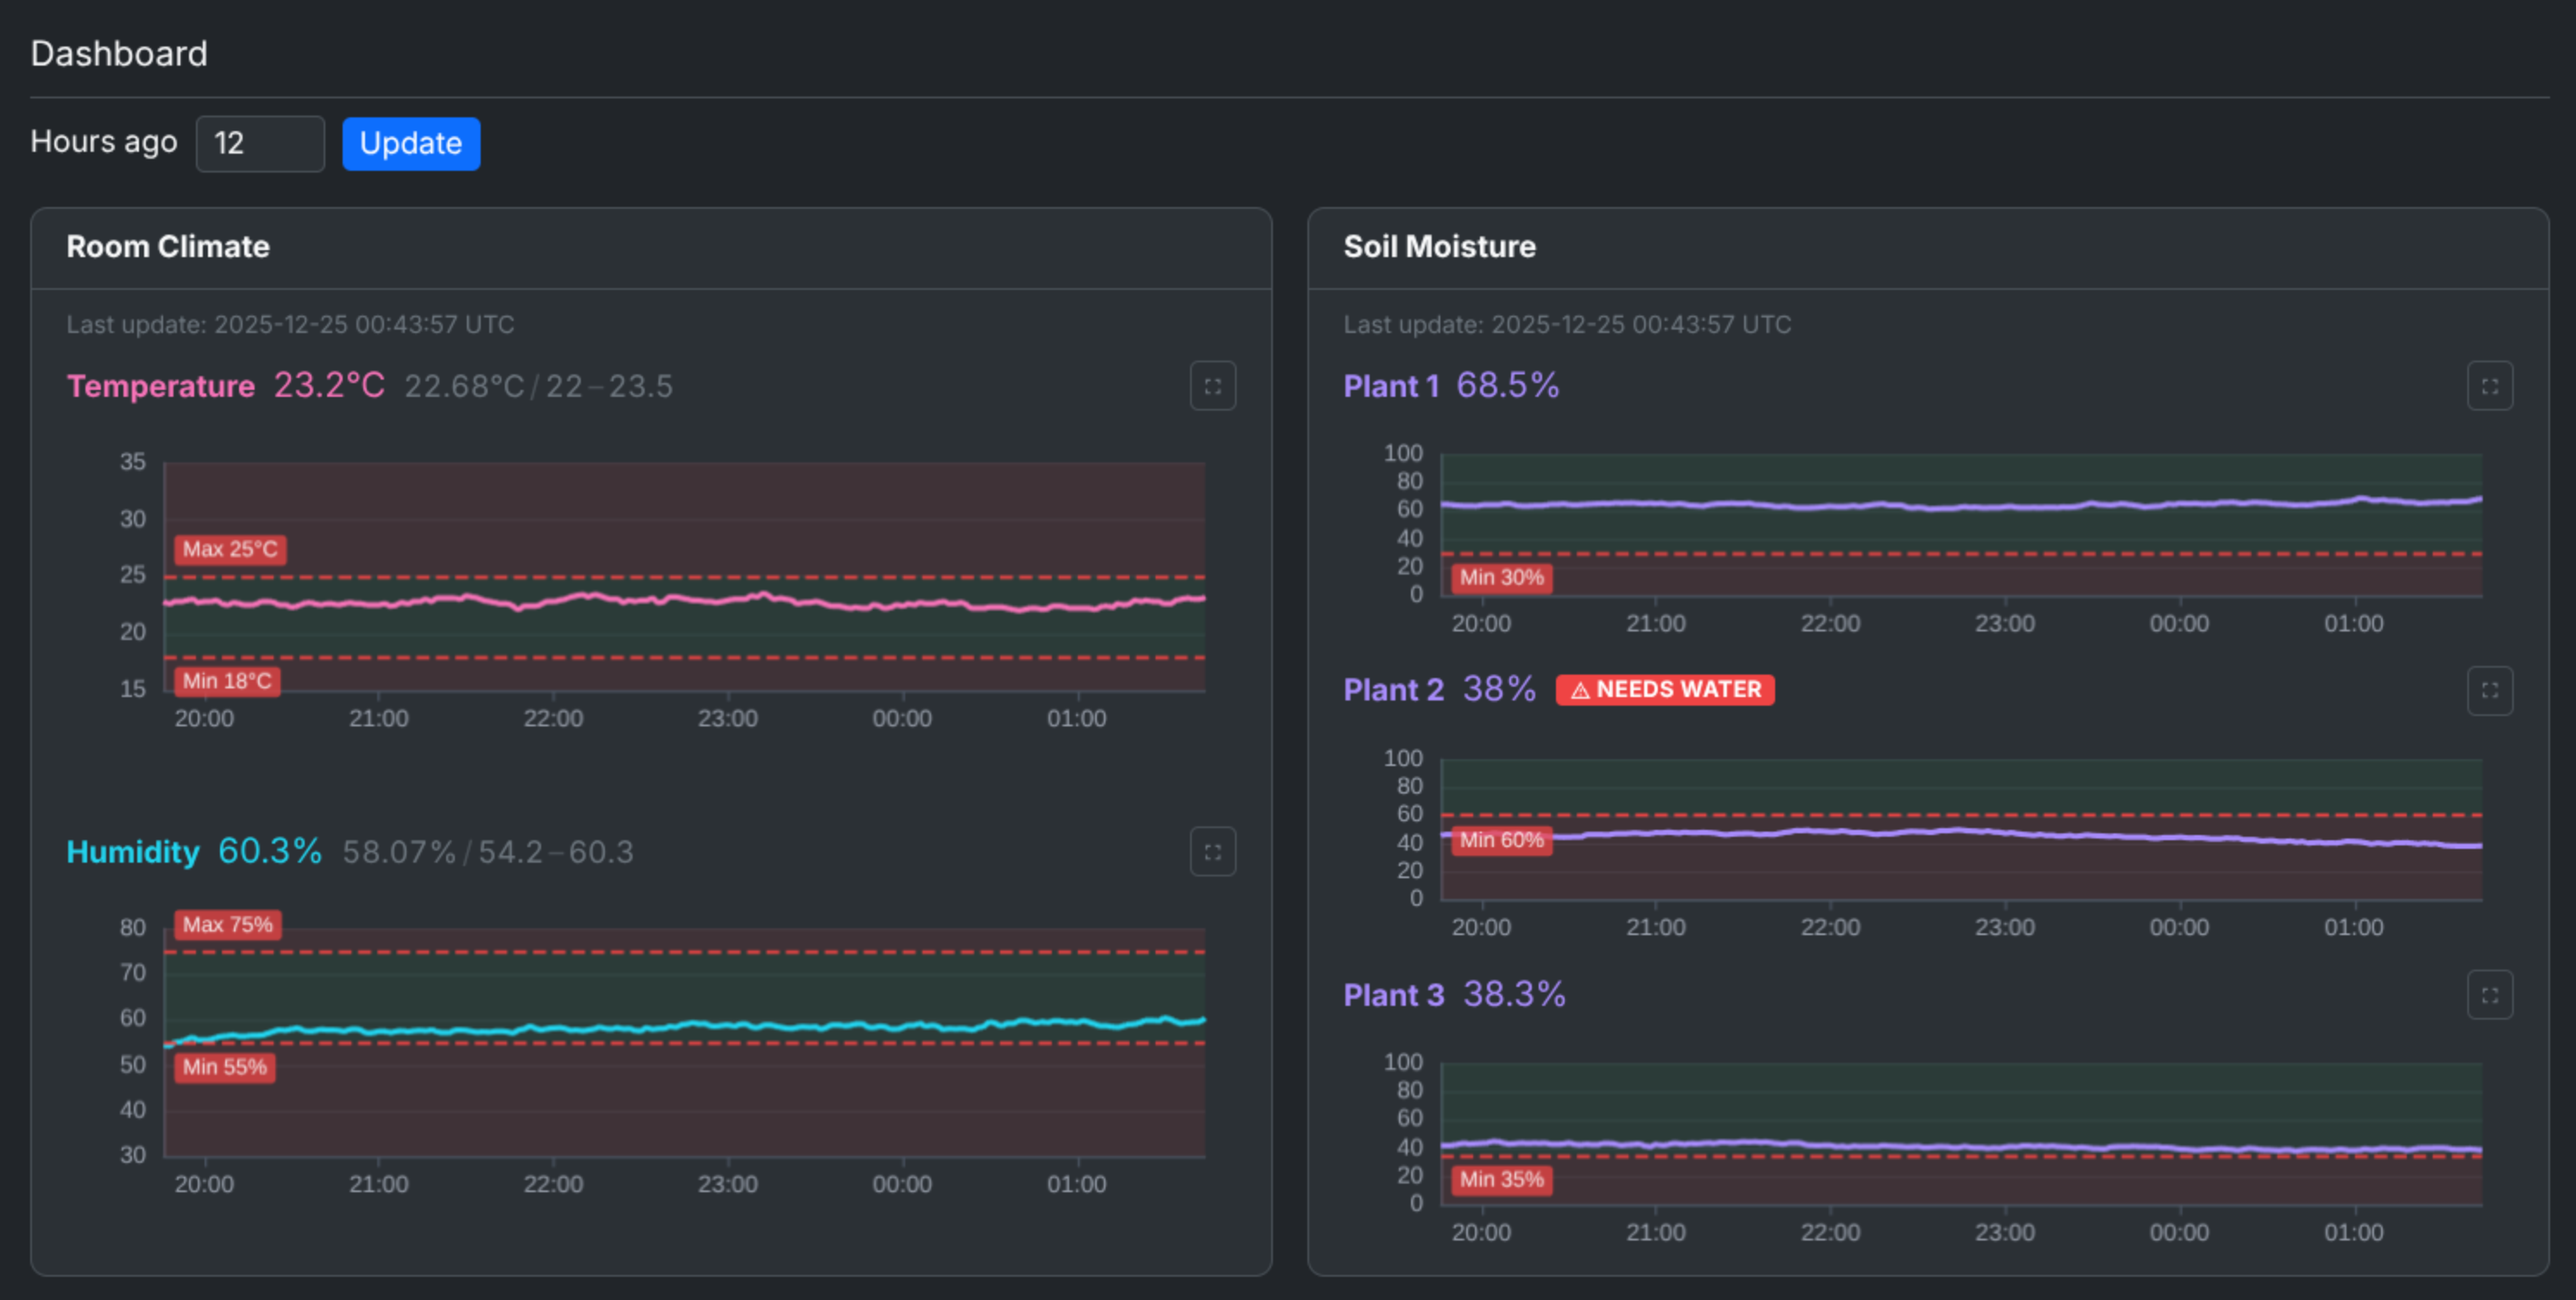
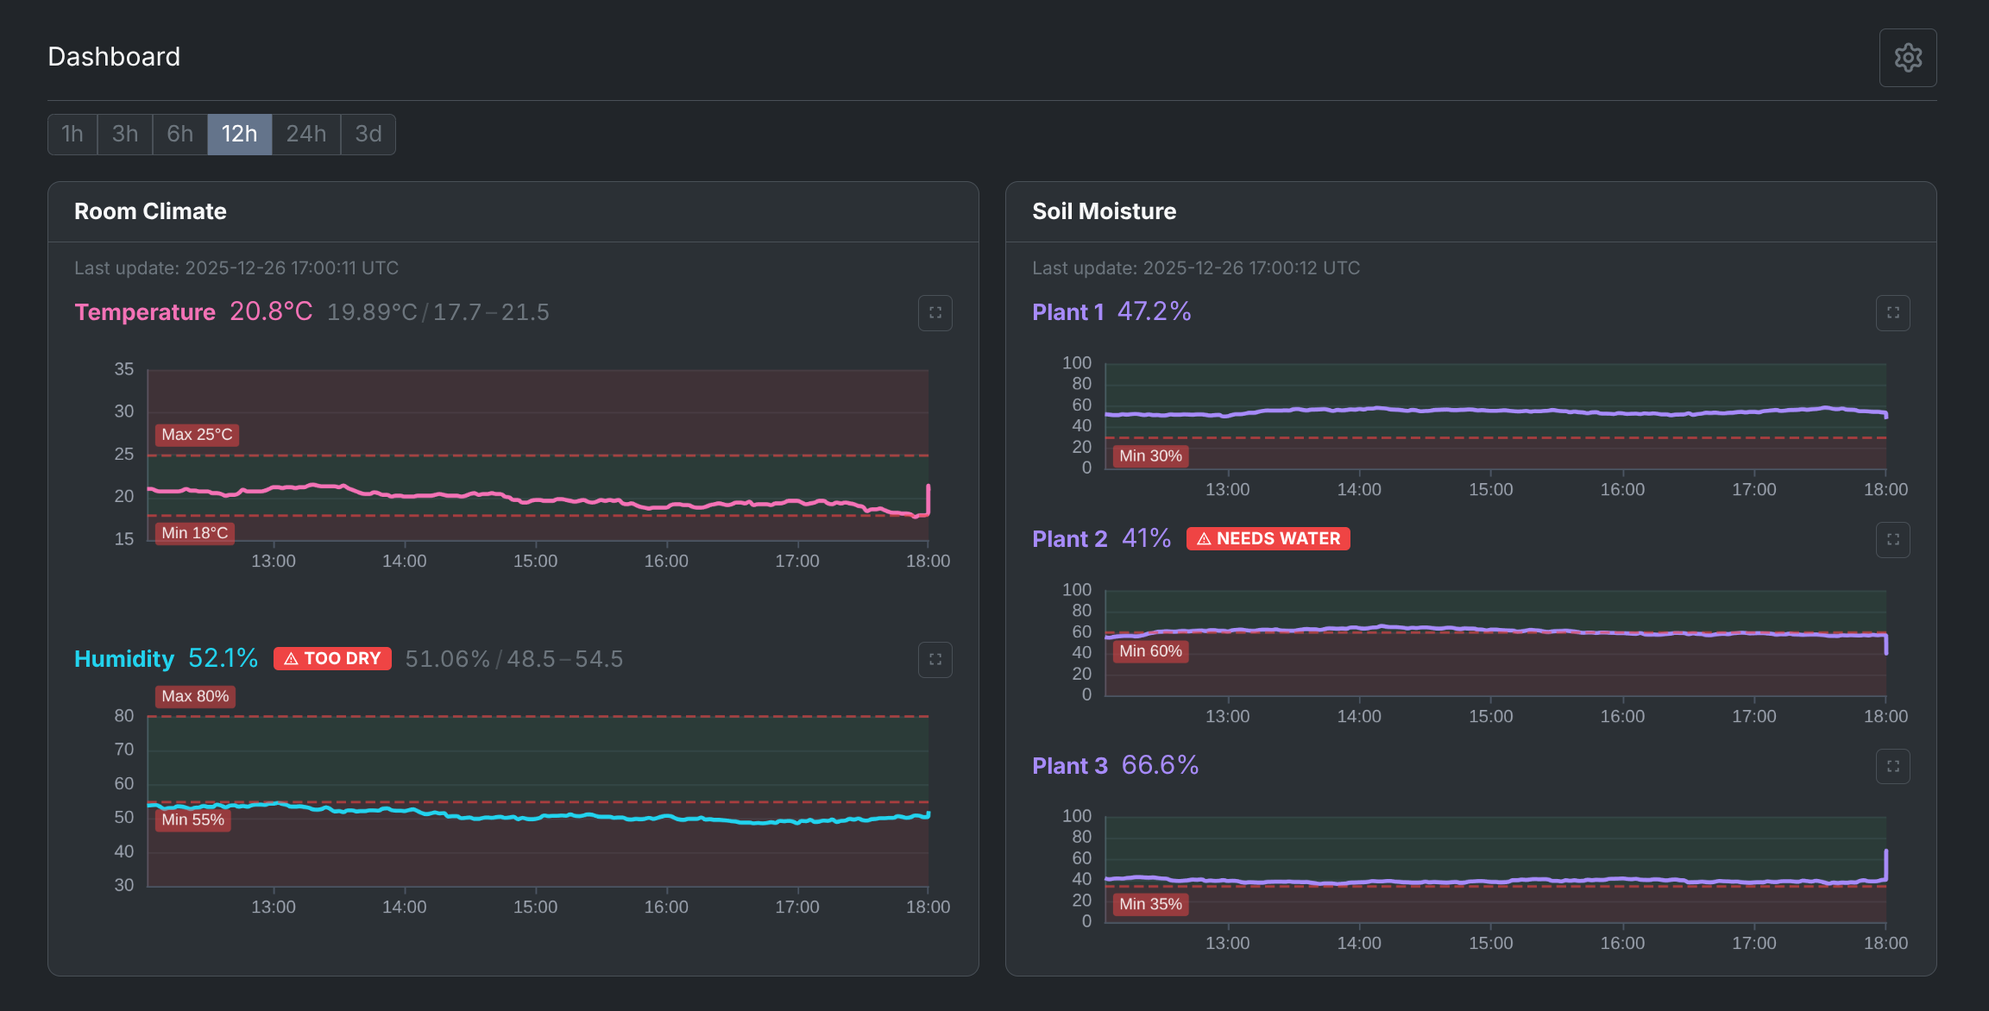
Better UI to select timeframes

diff --git a/rpi/server/frontend/src/components/HoursFilter/HoursFilter.module.css b/rpi/server/frontend/src/components/HoursFilter/HoursFilter.module.css
@@ -1,48 +1,49 @@
-.form {
+.container {
   display: flex;
-  align-items: center;
-  gap: var(--spacing-sm);
+  gap: 1px;
   margin-bottom: var(--spacing-md);
-  flex-wrap: wrap;
-}
-
-.label {
-  color: var(--color-text);
-  font-size: var(--font-size-sm);
-}
-
-.input {
-  width: 60px;
-  padding: var(--spacing-xs) var(--spacing-sm);
-  background-color: var(--color-bg-card);
-  border: 1px solid var(--color-border);
-  border-radius: var(--radius-sm);
-  color: var(--color-text);
-  font-size: var(--font-size-sm);
-  -webkit-appearance: none;
-  -moz-appearance: textfield;
-}
-
-.input:focus {
-  outline: none;
-  border-color: var(--color-humidity);
 }
 
 .button {
   padding: var(--spacing-xs) var(--spacing-sm);
-  background-color: #0d6efd;
-  border: none;
-  border-radius: var(--radius-sm);
-  color: white;
+  background-color: var(--color-bg-card);
+  border: 1px solid var(--color-border);
+  color: var(--color-text-muted);
   font-size: var(--font-size-sm);
-  transition: background-color 0.15s;
-  touch-action: manipulation;
+  font-weight: 500;
+  cursor: pointer;
+  transition:
+    background-color 0.15s,
+    color 0.15s,
+    border-color 0.15s;
+}
+
+.button:first-child {
+  border-radius: var(--radius-sm) 0 0 var(--radius-sm);
+}
+
+.button:last-child {
+  border-radius: 0 var(--radius-sm) var(--radius-sm) 0;
+}
+
+.button:not(:first-child) {
+  margin-left: -1px;
 }
 
 .button:hover {
-  background-color: #0b5ed7;
+  color: var(--color-text);
+  border-color: var(--color-text-muted);
+  z-index: 1;
 }
 
-.button:active {
-  background-color: #0a58ca;
+.button.active {
+  background-color: var(--color-primary);
+  border-color: var(--color-primary);
+  color: #fff;
+  z-index: 2;
+}
+
+.button.active:hover {
+  background-color: var(--color-primary-hover);
+  border-color: var(--color-primary-hover);
 }

diff --git a/rpi/server/frontend/src/components/HoursFilter/HoursFilter.tsx b/rpi/server/frontend/src/components/HoursFilter/HoursFilter.tsx
@@ -1,4 +1,3 @@
-import { useState } from 'preact/hooks';
 import styles from './HoursFilter.module.css';
 
 interface HoursFilterProps {
@@ -6,33 +5,28 @@ interface HoursFilterProps {
   onChange: (hours: number) => void;
 }
 
+const TIMEFRAMES = [
+  { hours: 1, label: '1h' },
+  { hours: 3, label: '3h' },
+  { hours: 6, label: '6h' },
+  { hours: 12, label: '12h' },
+  { hours: 24, label: '24h' },
+  { hours: 72, label: '3d' },
+];
+
 export function HoursFilter({ value, onChange }: HoursFilterProps) {
-  const [inputValue, setInputValue] = useState(value.toString());
-
-  const handleSubmit = (e: Event) => {
-    e.preventDefault();
-    const hours = Math.min(24, Math.max(1, parseInt(inputValue, 10) || 3));
-    setInputValue(hours.toString());
-    onChange(hours);
-  };
-
   return (
-    <form class={styles.form} onSubmit={handleSubmit}>
-      <label class={styles.label} htmlFor="hours">
-        Hours ago
-      </label>
-      <input
-        type="number"
-        id="hours"
-        min="1"
-        max="24"
-        class={styles.input}
-        value={inputValue}
-        onInput={(e) => setInputValue((e.target as HTMLInputElement).value)}
-      />
-      <button type="submit" class={styles.button}>
-        Update
-      </button>
-    </form>
+    <div class={styles.container}>
+      {TIMEFRAMES.map(({ hours, label }) => (
+        <button
+          key={hours}
+          type="button"
+          class={`${styles.button} ${value === hours ? styles.active : ''}`}
+          onClick={() => onChange(hours)}
+        >
+          {label}
+        </button>
+      ))}
+    </div>
   );
 }

diff --git a/rpi/server/frontend/src/components/AdminSettings/AdminSettings.module.css b/rpi/server/frontend/src/components/AdminSettings/AdminSettings.module.css
@@ -137,18 +137,18 @@
 
 .saveButton {
   padding: var(--spacing-xs) var(--spacing-lg);
-  background: var(--color-humidity);
+  background: var(--color-primary);
   border: none;
   border-radius: var(--radius-sm);
-  color: #000;
+  color: #fff;
   font-size: var(--font-size-sm);
   font-weight: 600;
   cursor: pointer;
-  transition: opacity 0.15s;
+  transition: background-color 0.15s;
 }
 
 .saveButton:hover:not(:disabled) {
-  opacity: 0.9;
+  background-color: var(--color-primary-hover);
 }
 
 .saveButton:disabled {

diff --git a/rpi/server/frontend/src/styles/theme.css b/rpi/server/frontend/src/styles/theme.css
@@ -10,6 +10,8 @@
   --color-plant-1: #a78bfa;
   --color-plant-2: #38bdf8;
   --color-plant-3: #fb7185;
+  --color-primary: #64748b;
+  --color-primary-hover: #475569;
 
   --font-family: "Inter", system-ui, sans-serif;
   --font-size-base: 16px;

diff --git a/tests/test_validators.py b/tests/test_validators.py
@@ -43,7 +43,7 @@ class TestHoursQuery:
 
     def test_above_max_raises(self):
         with pytest.raises(ValidationError):
-            HoursQuery(hours=25)
+            HoursQuery(hours=MAX_HOURS + 1)
 
 
 class TestHoursQueryFromParams:

diff --git a/rpi/server/validators.py b/rpi/server/validators.py
@@ -7,7 +7,7 @@ from datetime import UTC, datetime, timedelta
 from pydantic import BaseModel, Field
 
 MIN_HOURS = 1
-MAX_HOURS = 24
+MAX_HOURS = 72  # 3 days max (matches retention)
 DEFAULT_HOURS = 3
 
 
